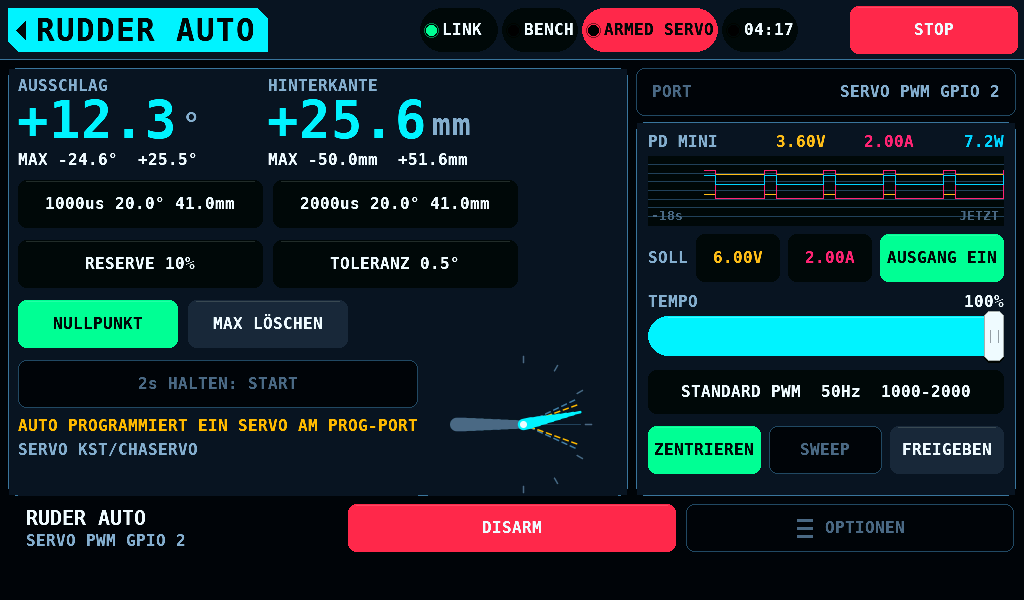
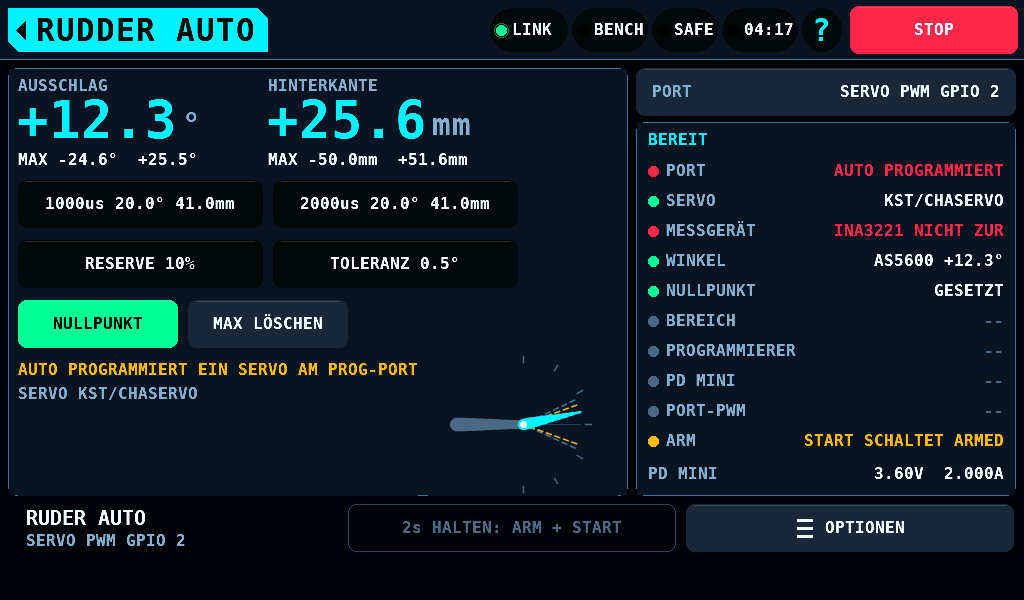
Read RUDDER AUTO's settings when the hold fires, document the start lock, bring the view counts up

Changed region(s): [[0.4062, 0.0, 1.0, 0.81], [0.3125, 0.84, 1.0, 0.93], [0.0, 0.6, 0.4062, 0.78]]

diff --git a/test/host/test_servo_rauto_seq.c b/test/host/test_servo_rauto_seq.c
@@ -14,6 +14,7 @@
  * - a_pd_mini_off_is_switched_on_by_the_hold
  * - a_tap_on_the_hold_during_the_sequence_ends_it_all_off
  * - a_finger_on_arm_start_locks_port_target_and_pwm
+ * - settings_edited_after_entry_are_the_ones_the_run_takes
  *
  * SPDX-License-Identifier: MIT
  */
@@ -235,6 +236,31 @@ TEST_CASE(a_finger_on_arm_start_locks_port_target_and_pwm)
     carrier_done();
 }
 
+/* The settings the start reads are read when the hold fires, not when the
+ * screen opened: targets and margin set on the screen shown are the
+ * report's, and PORT PWM switched off on it is what the sequence finds. */
+TEST_CASE(settings_edited_after_entry_are_the_ones_the_run_takes)
+{
+    char want[128];
+    carrier_safe_off(40u);
+    settings_set(SET_RUDDER_MARGIN, 0.0f);
+    settings_set(SET_RUDDER_DEFL_LO, 12.5f);
+    ra_hold_start();
+    CHECK(servo_screen_rauto_running());
+    CHECK(settings_get_bool(SET_SERVO_PORT_PWM));
+    ev(SV_RA_START_X, SV_RA_START_Y, TOUCH_EVENT_DOWN, 1);
+    ev(SV_RA_START_X, SV_RA_START_Y, TOUCH_EVENT_UP, 1);
+    ra_ms(2000u);
+    CHECK(!servo_screen_rauto_running());
+    snprintf(want, sizeof(want), ui_servo_str(SERVO_STR_RA_R_TARGETS), 12.5,
+             20.0, 0u);
+    CHECK(strstr(ra.report, want) != NULL);
+    settings_set(SET_RUDDER_MARGIN, 10.0f);
+    settings_set(SET_RUDDER_DEFL_LO, 20.0f);
+    ra.p5_task = false;
+    carrier_done();
+}
+
 int main(void)
 {
     RUN(on_the_carrier_one_hold_switches_port_pwm_and_5v_arms_and_starts);
@@ -243,5 +269,6 @@ int main(void)
     RUN(a_pd_mini_off_is_switched_on_by_the_hold);
     RUN(a_tap_on_the_hold_during_the_sequence_ends_it_all_off);
     RUN(a_finger_on_arm_start_locks_port_target_and_pwm);
+    RUN(settings_edited_after_entry_are_the_ones_the_run_takes);
     return test_summary("servo_rauto_seq");
 }

diff --git a/shared/ui/servo_ready.c b/shared/ui/servo_ready.c
@@ -35,9 +35,9 @@
 /** @brief The card's inner column. */
 #define RDY_X (RCARD_X + 12)
 #define RDY_W (RCARD_W - 24) /**< Its width: 356px. */
-/** @brief The dot's radius, px, and its centre's offset in the column. */
+/** @brief The dot's radius, px. */
 #define DOT_R  5
-#define DOT_DX 5
+#define DOT_DX 5 /**< The centre's offset, px. */
 
 _Static_assert(READY_ROW_Y + READY_ROWS_MAX * READY_ROW_H <= READY_RAIL_Y,
                "the rows end above the rail line");
@@ -253,7 +253,7 @@ bool ready_down(const touch_event_t *evt)
     for (int i = 0; i < ready_count(); ++i) {
         if (gfx_rect_contains(ready_row_rect(i), evt->point.x,
                               evt->point.y)) {
-            s.rdy.pressed  = (int8_t)i;
+            s.rdy.pressed  = i;
             s.rdy.press_id = evt->point.id;
             ++s.ctrl_rev;
             break;

diff --git a/shared/ui/servo_settings_panel.c b/shared/ui/servo_settings_panel.c
@@ -407,9 +407,12 @@ bool target_locked_by_bench(setting_id_t id)
            || prog_holds();
 }
 
-/*
- * A finger on a start hold before it fires, or the ARM + START sequence
- * under way, locks both too: the hold arms the output shown when it began.
+/**
+ * @brief target_locked_by_bench(), and while a finger is on a start hold
+ *        before it fires or the ARM + START sequence is under way: the hold
+ *        arms the output shown when it began.
+ * @param id SET_SERVO_TARGET or SET_SERVO_PORT_PWM; false for any other
+ * @return true while locked
  */
 bool target_locked_for(setting_id_t id)
 {

diff --git a/shared/ui/servo_screen_int.h b/shared/ui/servo_screen_int.h
@@ -1580,8 +1580,12 @@ static inline float enc_deg_now(void)
  */
 const char *svs_angle_text(char *buf, size_t n, float deg, bool plus);
 
-/* A finger on RUDDER AUTO's ARM + START before it fires, or its sequence
- * under way: the output it arms is the one shown when the hold began. */
+/**
+ * @brief Whether a finger is on RUDDER AUTO's ARM + START before it fires,
+ *        or its sequence is under way: the output it arms is the one shown
+ *        when the hold began.
+ * @return true then
+ */
 static inline bool svs_start_pending(void)
 {
     return s.ra.down || svs_seq_busy();

diff --git a/shared/ui/servo_ready_int.h b/shared/ui/servo_ready_int.h
@@ -88,7 +88,7 @@ typedef struct {
 typedef struct {
     servo_seq_t seq;        /**< ARM + START's steps                     */
     servo_seq_need_t need;  /**< what the sequence under way needs        */
-    int8_t      pressed;    /**< the row a tap is on, -1 for none        */
+    int         pressed;    /**< the row a tap is on, -1 for none        */
     uint8_t     press_id;   /**< that contact's track id                 */
     uint32_t    drawn[2];   /**< ready_sig() as each buffer drew it      */
     const char *fail;       /**< the last failure's line, or NULL        */

diff --git a/tools/render_ui.py b/tools/render_ui.py
@@ -1034,6 +1034,8 @@ FIT_ONLY = {
     "supply-off":          (None, "supply", "dark"),
     "supply-settings-off": (None, "supply", "dark"),
     "servo-rudder-auto-safe": (None, "servo", "dark"),
+    # RUDDER AUTO's guide at its READY page.
+    "help-servo-rudder-auto-3": (None, "servo", "dark"),
     # SUPPLY's TABLE; LIVE with a programming port holding the supply; and
     # SETTINGS with the PD mini's RESET PD MINI and the longest save line.
     "supply-table":     (None, "supply", "dark"),

diff --git a/shared/ui/servo_workbench_int.h b/shared/ui/servo_workbench_int.h
@@ -100,7 +100,8 @@ void draw_rows_page(gfx_canvas_t *c);
 bool opener_down(const touch_event_t *evt, gfx_rect_t r, int code);
 void wb_open_caps(void);
 void wb_open_encoder(void);
-/* SETUP > SENSORS on the INA3221's entry, for RUDDER AUTO's METER row. */
+/** @brief SETUP > SENSORS on the INA3221's entry, for RUDDER AUTO's METER
+ *         row. */
 void wb_open_meter(void);
 
 /* The task strip at its start (reset); a screen entered; leaving (a page

diff --git a/shared/ui/servo_workbench.c b/shared/ui/servo_workbench.c
@@ -259,6 +259,7 @@ void wb_open_encoder(void)
     settings_screen_open_on(SET_CAT_SENSORS, e);
 }
 
+/** @brief SETUP > SENSORS on the INA3221's first entry. */
 void wb_open_meter(void)
 {
     ui_router_goto(SCREEN_SETUP);

diff --git a/CHANGELOG.md b/CHANGELOG.md
@@ -74,6 +74,22 @@ history is in git.
 - A limit run or a RUDDER AUTO run that wrote names `RESTORE IN KST` in
   place of `RESTORE IN PROGRAM`. The KST programmer's hint on the standard
   outputs reads `Tap PORT and pick a PROG PORT.`
+- RUDDER AUTO has a READY card in the output card's place, 380 x 374px:
+  one 30px row for each check of the start gate (PORT, SERVO, METER,
+  ANGLE, ZERO, RANGE, PROGRAMMER, the supply, PORT PWM, ARM) and the
+  meter's volts and amps under them. A row is green when met, amber when
+  the hold does it, red when it refuses the hold, grey while it waits on
+  PORT. A tap on PORT, SERVO, METER, ANGLE or ZERO takes its fix; a tap on
+  another red row names it in the alert band.
+- RUDDER AUTO's start is the footer's `HOLD 2s: ARM + START`. It switches
+  PORT PWM on, then PROG 5V on the carrier or the PD mini where it feeds
+  the servo, waits up to 1000ms for the read-back, arms, waits up to 500ms
+  for ARMED and starts the run (`shared/servo/servo_start_seq.c`). A failed
+  step switches every output off and the alert band names it, for example
+  `PROG 5V FAILED: NO READ-BACK IN 1000ms`. A tap on the hold during the
+  steps ends them the same way. The START button on the left card is gone.
+- While a finger holds ARM + START, and while its steps run, PORT opens
+  nothing and takes no pick, and TARGET, PORT PWM and SETTINGS are locked.
 
 - The panel sets the Bluetooth IMU's output content register RSW (0x02) to
   0x0C: angle (0x53) and angular rate with the battery (0x52), 2 frames a

diff --git a/STATUS.md b/STATUS.md
@@ -1845,8 +1845,8 @@ the suite executables: `sense_trace_tool`, `tools/sense_trace.py` on a synthetic
 Coverage floors: 94% overall, 85% for every file. `tools/coverage.py --check` fails on drift
 of the table below and of the figure in the two READMEs, and on a C file under `shared/` or
 a core file under `protocols/` that is in neither of its two lists, is not compiled, or has
-no counters. `render_ui.py --check` holds 894 committed screenshots to the current render,
-447 in English and the same 447 in German, and `render_ui.py --fit` fails on a string that
+no counters. `render_ui.py --check` holds 902 committed screenshots to the current render,
+451 in English and the same 451 in German, and `render_ui.py --fit` fails on a string that
 overflows where it is drawn, in either language, except an English overflow it lists as
 known (none listed). `image_slot.py` holds the panel image to the smaller of its two update
 slots.

diff --git a/docs/Language.md b/docs/Language.md
@@ -315,7 +315,7 @@ lines is left with conflict markers.
 python3 tools/render_ui.py --fit
 ```
 
-builds the renderer with `GFX_TEXT_TRACE`, draws all 625 views in English and
+builds the renderer with `GFX_TEXT_TRACE`, draws all 626 views in English and
 in German, and fails when a string in either language
 
 - is wider than the box `gfx_text_in()` was given,

diff --git a/docs/Language-de.md b/docs/Language-de.md
@@ -328,7 +328,7 @@ Konfliktmarkierungen stehen.
 python3 tools/render_ui.py --fit
 ```
 
-baut den Renderer mit `GFX_TEXT_TRACE`, zeichnet alle 625 Ansichten auf
+baut den Renderer mit `GFX_TEXT_TRACE`, zeichnet alle 626 Ansichten auf
 Englisch und auf Deutsch und schlägt fehl, wenn ein Text in einer der beiden
 Sprachen
 
